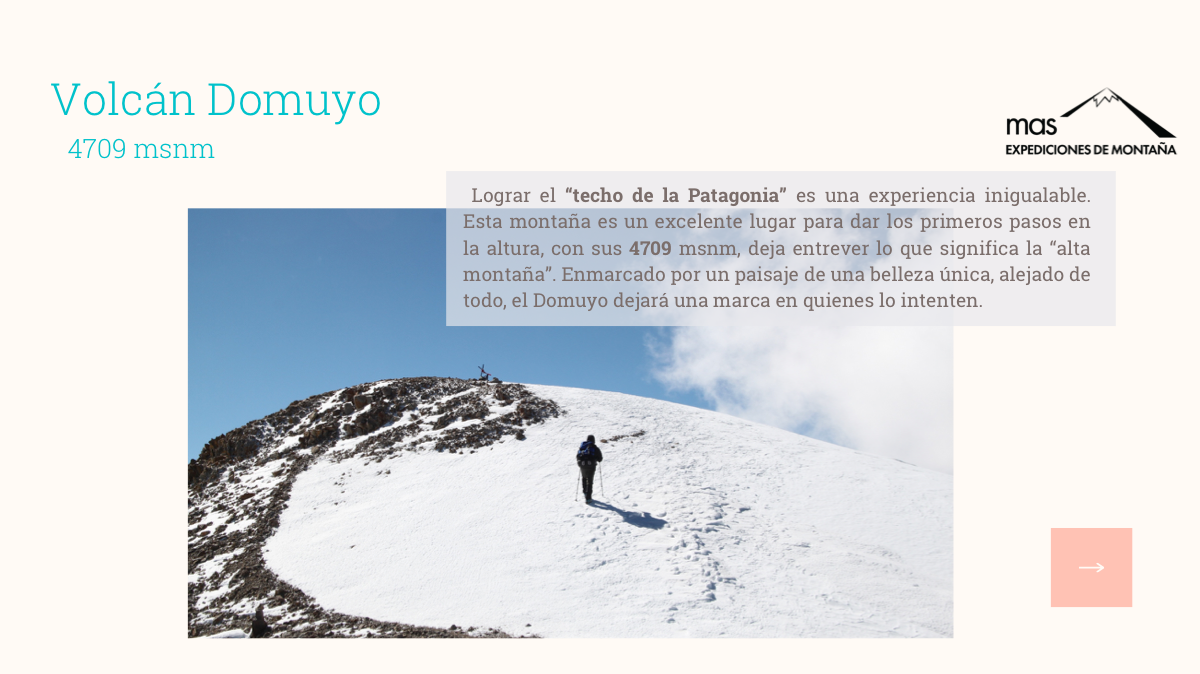
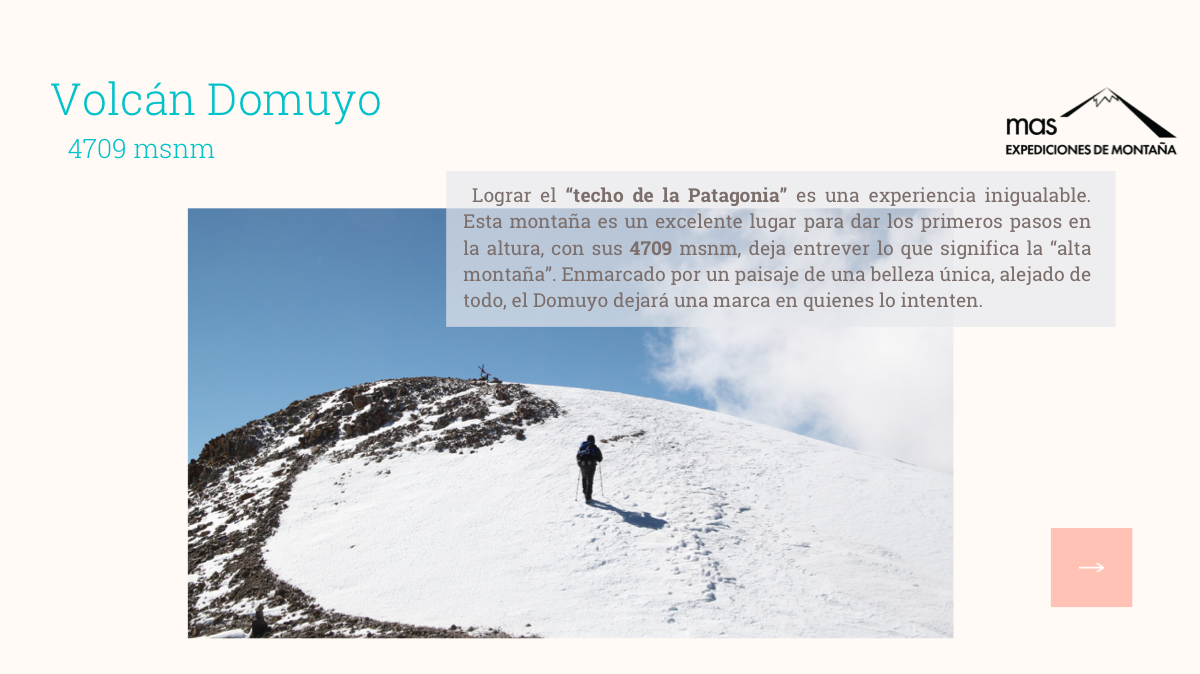
Update expeditions with new PDFs

diff --git a/src/lib/expeditions.ts b/src/lib/expeditions.ts
@@ -11,48 +11,59 @@ export type Expedition = {
 
 export const expeditions: Expedition[] = [
   {
-    slug: "lanin",
-    title: "Volcán Lanín",
-    region: "Cordillera argentino-chilena",
-    summary:
-      "Una de las cumbres más solicitadas por la agencia. La ficha original queda disponible para revisar itinerario, condiciones y equipo.",
-    audience: "Salida de montaña con cupos a coordinar según experiencia del grupo.",
-    pdf: "/pdfs/lanin.pdf",
-    thumbnail: "/images/lanin.pdf.png",
-    tags: ["Cumbre", "Volcán", "Ficha PDF"],
-  },
-  {
     slug: "domuyo",
     title: "Volcán Domuyo",
     region: "4709 msnm",
     summary:
-      "Programa de ascenso al Domuyo basado en la ficha entregada por Más Expediciones.",
-    audience: "Para montañistas que quieran revisar una propuesta de alta montaña.",
+      "Programa completo al Domuyo con base, cumbre, domos y termas según la ficha vigente.",
+    audience: "Dificultad informada en ficha: media a alta.",
     pdf: "/pdfs/domuyo.pdf",
     thumbnail: "/images/domuyo.pdf.png",
-    tags: ["Cumbre", "Altura", "Ficha PDF"],
+    tags: ["Programa completo", "Media/alta", "Ficha PDF"],
   },
   {
-    slug: "puyehue",
-    title: "Volcán Puyehue",
-    region: "Cordillera argentino-chilena",
+    slug: "puyehue-osorno",
+    title: "Tour Puyehue + Osorno",
+    region: "Chile",
     summary:
-      "Salida volcánica con ficha específica para clientes, preparada como página individual de consulta.",
-    audience: "Itinerario a revisar desde la ficha antes de reservar.",
-    pdf: "/pdfs/puyehue.pdf",
-    thumbnail: "/images/puyehue.pdf.png",
-    tags: ["Volcán", "Travesía", "Ficha PDF"],
+      "Tour de volcanes por Puyehue y Osorno con programa completo y salida desde San Martín de los Andes.",
+    audience: "Dificultad informada en ficha: media / alta.",
+    pdf: "/pdfs/puyehue-osorno.pdf",
+    thumbnail: "/images/puyehue-osorno.pdf.png",
+    tags: ["Tour de volcanes", "Chile", "Media/alta"],
   },
   {
     slug: "mocho-villarrica",
-    title: "Tour de volcanes Mocho-Choshuenco y Villarrica",
-    region: "Cordillera chilena",
+    title: "Tour Mocho-Choshuenco + Villarrica",
+    region: "Chile",
     summary:
-      "Tour de volcanes cargado desde la ficha original de Mocho-Choshuenco y Villarrica.",
-    audience: "Programa por etapas para evaluar con el equipo de guías.",
+      "Tour de volcanes en Chile con Mocho-Choshuenco de 2224 msnm y Villarrica de 2870 msnm.",
+    audience: "Dificultad informada en ficha: media.",
     pdf: "/pdfs/mocho-villarrica.pdf",
     thumbnail: "/images/mocho-villarrica.pdf.png",
-    tags: ["Volcanes", "Chile", "Ficha PDF"],
+    tags: ["Tour de volcanes", "Chile", "Media"],
+  },
+  {
+    slug: "osorno",
+    title: "Volcán Osorno",
+    region: "Chile · 2652 msnm",
+    summary:
+      "Programa 3 días / 2 noches al Volcán Osorno, con cumbre de 2652 msnm según ficha vigente.",
+    audience: "Dificultad informada en ficha: media/alta.",
+    pdf: "/pdfs/osorno.pdf",
+    thumbnail: "/images/osorno.pdf.png",
+    tags: ["3D / 2N", "Chile", "Media/alta"],
+  },
+  {
+    slug: "puyehue-2-noches",
+    title: "Volcán Puyehue · 2 noches",
+    region: "Chile · 2240 msnm",
+    summary:
+      "Programa al Volcán Puyehue con dos noches, traslado, trekking y jornada de cumbre.",
+    audience: "Dificultad informada en ficha: baja a media.",
+    pdf: "/pdfs/puyehue-2-noches.pdf",
+    thumbnail: "/images/puyehue-2-noches.pdf.png",
+    tags: ["2 noches", "Chile", "Baja/media"],
   },
   {
     slug: "aconcagua",
@@ -67,36 +78,34 @@ export const expeditions: Expedition[] = [
   },
   {
     slug: "san-francisco",
-    title: "San Francisco",
-    region: "Cordillera de los Andes",
+    title: "Nevado de San Francisco",
+    region: "6018 msnm",
     summary:
-      "Salida documentada en PDF para revisar detalles del programa junto al equipo de Más Expediciones.",
-    audience: "Consulta recomendada de ficha antes de definir reserva.",
+      "Expedición al Nevado de San Francisco con campamento, comidas, seguros, asistencia y traslados según ficha.",
+    audience: "Salida de alta montaña para revisar en detalle con la ficha vigente.",
     pdf: "/pdfs/san-francisco.pdf",
     thumbnail: "/images/san-francisco.pdf.png",
-    tags: ["Montaña", "Ficha PDF"],
+    tags: ["6018 msnm", "Alta montaña", "Ficha PDF"],
   },
   {
     slug: "avion-de-los-uruguayos",
     title: "Avión de los Uruguayos",
-    region: "Cordillera de los Andes",
+    region: "3600 msnm",
     summary:
-      "Itinerario cargado desde el PDF provisto para presentar esta salida como página independiente.",
-    audience: "Programa especial a coordinar con la agencia.",
+      "Trekking homenaje con alojamiento incluido y jornadas de caminata en la cordillera.",
+    audience: "Programa especial con campamento y desniveles informados en ficha.",
     pdf: "/pdfs/avion-de-los-uruguayos.pdf",
     thumbnail: "/images/avion-de-los-uruguayos.pdf.png",
-    tags: ["Itinerario", "Ficha PDF"],
+    tags: ["Trekking", "3600 msnm", "Ficha PDF"],
   },
 ];
 
-export const documents = [
-  {
-    title: "Equipamiento de montaña",
-    href: "/pdfs/equipamiento-montana.pdf",
-    thumbnail: "/images/equipamiento-montana.pdf.png",
-    description: "Documento base para preparar el equipo antes de viajar.",
-  },
-];
+export const documents: Array<{
+  title: string;
+  href: string;
+  thumbnail: string;
+  description: string;
+}> = [];
 
 export function getExpedition(slug: string) {
   return expeditions.find((expedition) => expedition.slug === slug);

diff --git a/src/app/globals.css b/src/app/globals.css
@@ -255,7 +255,7 @@ p {
 .expedition-card img {
   aspect-ratio: 4 / 3;
   background: var(--ice);
-  object-fit: cover;
+  object-fit: contain;
   width: 100%;
 }
 
@@ -334,8 +334,9 @@ p {
 }
 
 .document-strip img {
+  background: var(--ice);
   height: 120px;
-  object-fit: cover;
+  object-fit: contain;
   width: 120px;
 }
 
@@ -370,10 +371,11 @@ p {
 
 .detail-hero__grid img {
   aspect-ratio: 4 / 5;
+  background: var(--ice);
   border: 1px solid var(--line);
   border-radius: 8px;
   box-shadow: var(--shadow);
-  object-fit: cover;
+  object-fit: contain;
   width: 100%;
 }
 
@@ -450,9 +452,10 @@ p {
 }
 
 .document-card img {
+  background: var(--ice);
   height: 100%;
   min-height: 210px;
-  object-fit: cover;
+  object-fit: contain;
   width: 100%;
 }
 

diff --git a/src/app/page.tsx b/src/app/page.tsx
@@ -1,9 +1,14 @@
 import { ArrowRight, Download, MapPin } from "lucide-react";
 import Link from "next/link";
 import { ExpeditionCard } from "@/components/ExpeditionCard";
-import { documents, expeditions } from "@/lib/expeditions";
+import { expeditions } from "@/lib/expeditions";
 
 const featured = expeditions.slice(0, 5);
+const clientDocuments = expeditions.slice(0, 3).map((expedition) => ({
+  title: expedition.title,
+  href: expedition.pdf,
+  thumbnail: expedition.thumbnail,
+}));
 
 export default function Home() {
   return (
@@ -69,11 +74,11 @@ export default function Home() {
         <div className="section-heading">
           <div>
             <p className="eyebrow">Antes de viajar</p>
-            <h2>Documentos para clientes</h2>
+            <h2>Fichas para clientes</h2>
           </div>
         </div>
         <div className="document-strip">
-          {documents.map((document) => (
+          {clientDocuments.map((document) => (
             <a key={document.href} href={document.href} target="_blank" rel="noreferrer">
               <img src={document.thumbnail} alt="" />
               <span>

diff --git a/src/app/documentos/page.tsx b/src/app/documentos/page.tsx
@@ -19,7 +19,7 @@ export default function DocumentosPage() {
         <p className="eyebrow">Fichas y preparación</p>
         <h1>Documentos para clientes</h1>
         <p>
-          PDFs importantes para revisar antes de confirmar una salida o preparar el equipo.
+          PDFs importantes para revisar antes de confirmar una salida.
         </p>
       </section>
 